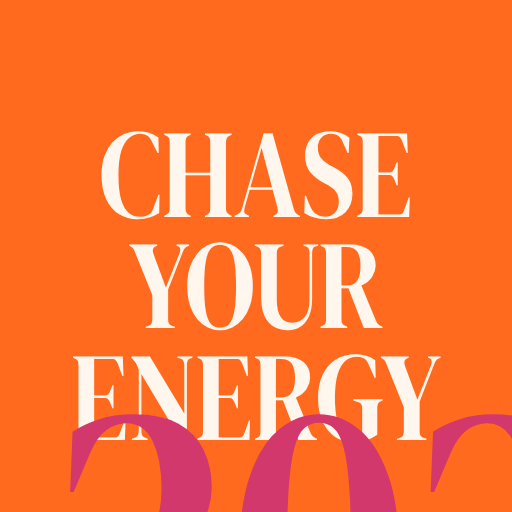
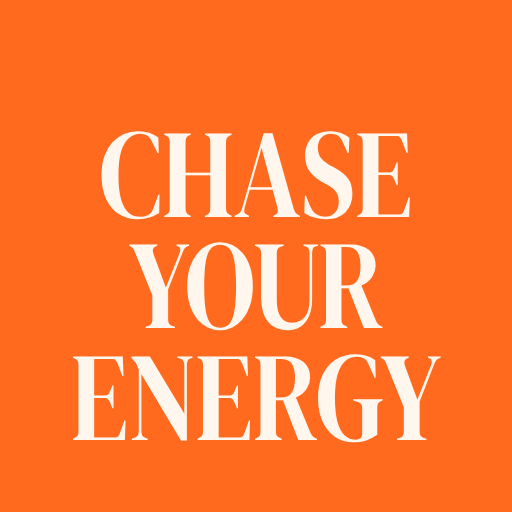
Energy family apps: long titles fit the phone page, Poppy cover year fits

Changed region(s): [[0.4688, 0.8125, 0.7812, 1.0], [0.125, 0.7812, 0.4375, 1.0], [0.8438, 0.7812, 1.0, 0.9688]]

diff --git a/p/a4c9eafbf1/energy-en-mon/index.html b/p/a4c9eafbf1/energy-en-mon/index.html
@@ -241,7 +241,11 @@ async function show(pid) {
   stage.style.width = meta.W + 'px'; stage.style.height = meta.H + 'px';
   stage.innerHTML = arts.map(s => `<div class="art">${s}</div>`).join('') + chunk[pid];
   const sid = sheet > 1 ? `${pid}~${sheet}` : pid;  // later note sheets keep their own text
-  const pg = stage.querySelector('.page'); if (meta.prep) new Function('root', meta.prep)(pg); fill(pg); fields(pg, sid); taps(pg, sid); photos(pg, sid); noteBar(pid);
+  const pg = stage.querySelector('.page'); if (meta.prep) new Function('root', meta.prep)(pg);
+  fill(pg);
+  pg.querySelectorAll('.hdr .t').forEach(t => {  /* long titles shrink until they fit the narrow phone page */
+    let f = parseFloat(getComputedStyle(t).fontSize); while (t.scrollWidth > t.clientWidth + 1 && f > 18) { f -= 2; t.style.setProperty('font-size', f + 'px', 'important'); } });
+ fields(pg, sid); taps(pg, sid); photos(pg, sid); noteBar(pid);
   if (/^index/.test(pid)) {  // the app menu (backup, help) lives on the index pages, next to the title
     const h = pg.querySelector('.hdr'), b = document.createElement('button'); b.className = 'btn appmenu'; b.textContent = '⚙ ' + T.menu;
     b.onclick = e => { e.stopPropagation(); openMenu(); }; if (h) h.appendChild(b); }

diff --git a/p/a4c9eafbf1/energy-en-sun/index.html b/p/a4c9eafbf1/energy-en-sun/index.html
@@ -241,7 +241,11 @@ async function show(pid) {
   stage.style.width = meta.W + 'px'; stage.style.height = meta.H + 'px';
   stage.innerHTML = arts.map(s => `<div class="art">${s}</div>`).join('') + chunk[pid];
   const sid = sheet > 1 ? `${pid}~${sheet}` : pid;  // later note sheets keep their own text
-  const pg = stage.querySelector('.page'); if (meta.prep) new Function('root', meta.prep)(pg); fill(pg); fields(pg, sid); taps(pg, sid); photos(pg, sid); noteBar(pid);
+  const pg = stage.querySelector('.page'); if (meta.prep) new Function('root', meta.prep)(pg);
+  fill(pg);
+  pg.querySelectorAll('.hdr .t').forEach(t => {  /* long titles shrink until they fit the narrow phone page */
+    let f = parseFloat(getComputedStyle(t).fontSize); while (t.scrollWidth > t.clientWidth + 1 && f > 18) { f -= 2; t.style.setProperty('font-size', f + 'px', 'important'); } });
+ fields(pg, sid); taps(pg, sid); photos(pg, sid); noteBar(pid);
   if (/^index/.test(pid)) {  // the app menu (backup, help) lives on the index pages, next to the title
     const h = pg.querySelector('.hdr'), b = document.createElement('button'); b.className = 'btn appmenu'; b.textContent = '⚙ ' + T.menu;
     b.onclick = e => { e.stopPropagation(); openMenu(); }; if (h) h.appendChild(b); }

diff --git a/p/a4c9eafbf1/energy-tr-mon/index.html b/p/a4c9eafbf1/energy-tr-mon/index.html
@@ -241,7 +241,11 @@ async function show(pid) {
   stage.style.width = meta.W + 'px'; stage.style.height = meta.H + 'px';
   stage.innerHTML = arts.map(s => `<div class="art">${s}</div>`).join('') + chunk[pid];
   const sid = sheet > 1 ? `${pid}~${sheet}` : pid;  // later note sheets keep their own text
-  const pg = stage.querySelector('.page'); if (meta.prep) new Function('root', meta.prep)(pg); fill(pg); fields(pg, sid); taps(pg, sid); photos(pg, sid); noteBar(pid);
+  const pg = stage.querySelector('.page'); if (meta.prep) new Function('root', meta.prep)(pg);
+  fill(pg);
+  pg.querySelectorAll('.hdr .t').forEach(t => {  /* long titles shrink until they fit the narrow phone page */
+    let f = parseFloat(getComputedStyle(t).fontSize); while (t.scrollWidth > t.clientWidth + 1 && f > 18) { f -= 2; t.style.setProperty('font-size', f + 'px', 'important'); } });
+ fields(pg, sid); taps(pg, sid); photos(pg, sid); noteBar(pid);
   if (/^index/.test(pid)) {  // the app menu (backup, help) lives on the index pages, next to the title
     const h = pg.querySelector('.hdr'), b = document.createElement('button'); b.className = 'btn appmenu'; b.textContent = '⚙ ' + T.menu;
     b.onclick = e => { e.stopPropagation(); openMenu(); }; if (h) h.appendChild(b); }

diff --git a/p/a4c9eafbf1/energy-tr-sun/index.html b/p/a4c9eafbf1/energy-tr-sun/index.html
@@ -241,7 +241,11 @@ async function show(pid) {
   stage.style.width = meta.W + 'px'; stage.style.height = meta.H + 'px';
   stage.innerHTML = arts.map(s => `<div class="art">${s}</div>`).join('') + chunk[pid];
   const sid = sheet > 1 ? `${pid}~${sheet}` : pid;  // later note sheets keep their own text
-  const pg = stage.querySelector('.page'); if (meta.prep) new Function('root', meta.prep)(pg); fill(pg); fields(pg, sid); taps(pg, sid); photos(pg, sid); noteBar(pid);
+  const pg = stage.querySelector('.page'); if (meta.prep) new Function('root', meta.prep)(pg);
+  fill(pg);
+  pg.querySelectorAll('.hdr .t').forEach(t => {  /* long titles shrink until they fit the narrow phone page */
+    let f = parseFloat(getComputedStyle(t).fontSize); while (t.scrollWidth > t.clientWidth + 1 && f > 18) { f -= 2; t.style.setProperty('font-size', f + 'px', 'important'); } });
+ fields(pg, sid); taps(pg, sid); photos(pg, sid); noteBar(pid);
   if (/^index/.test(pid)) {  // the app menu (backup, help) lives on the index pages, next to the title
     const h = pg.querySelector('.hdr'), b = document.createElement('button'); b.className = 'btn appmenu'; b.textContent = '⚙ ' + T.menu;
     b.onclick = e => { e.stopPropagation(); openMenu(); }; if (h) h.appendChild(b); }

diff --git a/p/a4c9eafbf1/leopard-en-mon/index.html b/p/a4c9eafbf1/leopard-en-mon/index.html
@@ -241,7 +241,11 @@ async function show(pid) {
   stage.style.width = meta.W + 'px'; stage.style.height = meta.H + 'px';
   stage.innerHTML = arts.map(s => `<div class="art">${s}</div>`).join('') + chunk[pid];
   const sid = sheet > 1 ? `${pid}~${sheet}` : pid;  // later note sheets keep their own text
-  const pg = stage.querySelector('.page'); if (meta.prep) new Function('root', meta.prep)(pg); fill(pg); fields(pg, sid); taps(pg, sid); photos(pg, sid); noteBar(pid);
+  const pg = stage.querySelector('.page'); if (meta.prep) new Function('root', meta.prep)(pg);
+  fill(pg);
+  pg.querySelectorAll('.hdr .t').forEach(t => {  /* long titles shrink until they fit the narrow phone page */
+    let f = parseFloat(getComputedStyle(t).fontSize); while (t.scrollWidth > t.clientWidth + 1 && f > 18) { f -= 2; t.style.setProperty('font-size', f + 'px', 'important'); } });
+ fields(pg, sid); taps(pg, sid); photos(pg, sid); noteBar(pid);
   if (/^index/.test(pid)) {  // the app menu (backup, help) lives on the index pages, next to the title
     const h = pg.querySelector('.hdr'), b = document.createElement('button'); b.className = 'btn appmenu'; b.textContent = '⚙ ' + T.menu;
     b.onclick = e => { e.stopPropagation(); openMenu(); }; if (h) h.appendChild(b); }

diff --git a/p/a4c9eafbf1/leopard-en-sun/index.html b/p/a4c9eafbf1/leopard-en-sun/index.html
@@ -241,7 +241,11 @@ async function show(pid) {
   stage.style.width = meta.W + 'px'; stage.style.height = meta.H + 'px';
   stage.innerHTML = arts.map(s => `<div class="art">${s}</div>`).join('') + chunk[pid];
   const sid = sheet > 1 ? `${pid}~${sheet}` : pid;  // later note sheets keep their own text
-  const pg = stage.querySelector('.page'); if (meta.prep) new Function('root', meta.prep)(pg); fill(pg); fields(pg, sid); taps(pg, sid); photos(pg, sid); noteBar(pid);
+  const pg = stage.querySelector('.page'); if (meta.prep) new Function('root', meta.prep)(pg);
+  fill(pg);
+  pg.querySelectorAll('.hdr .t').forEach(t => {  /* long titles shrink until they fit the narrow phone page */
+    let f = parseFloat(getComputedStyle(t).fontSize); while (t.scrollWidth > t.clientWidth + 1 && f > 18) { f -= 2; t.style.setProperty('font-size', f + 'px', 'important'); } });
+ fields(pg, sid); taps(pg, sid); photos(pg, sid); noteBar(pid);
   if (/^index/.test(pid)) {  // the app menu (backup, help) lives on the index pages, next to the title
     const h = pg.querySelector('.hdr'), b = document.createElement('button'); b.className = 'btn appmenu'; b.textContent = '⚙ ' + T.menu;
     b.onclick = e => { e.stopPropagation(); openMenu(); }; if (h) h.appendChild(b); }

diff --git a/p/a4c9eafbf1/leopard-tr-mon/index.html b/p/a4c9eafbf1/leopard-tr-mon/index.html
@@ -241,7 +241,11 @@ async function show(pid) {
   stage.style.width = meta.W + 'px'; stage.style.height = meta.H + 'px';
   stage.innerHTML = arts.map(s => `<div class="art">${s}</div>`).join('') + chunk[pid];
   const sid = sheet > 1 ? `${pid}~${sheet}` : pid;  // later note sheets keep their own text
-  const pg = stage.querySelector('.page'); if (meta.prep) new Function('root', meta.prep)(pg); fill(pg); fields(pg, sid); taps(pg, sid); photos(pg, sid); noteBar(pid);
+  const pg = stage.querySelector('.page'); if (meta.prep) new Function('root', meta.prep)(pg);
+  fill(pg);
+  pg.querySelectorAll('.hdr .t').forEach(t => {  /* long titles shrink until they fit the narrow phone page */
+    let f = parseFloat(getComputedStyle(t).fontSize); while (t.scrollWidth > t.clientWidth + 1 && f > 18) { f -= 2; t.style.setProperty('font-size', f + 'px', 'important'); } });
+ fields(pg, sid); taps(pg, sid); photos(pg, sid); noteBar(pid);
   if (/^index/.test(pid)) {  // the app menu (backup, help) lives on the index pages, next to the title
     const h = pg.querySelector('.hdr'), b = document.createElement('button'); b.className = 'btn appmenu'; b.textContent = '⚙ ' + T.menu;
     b.onclick = e => { e.stopPropagation(); openMenu(); }; if (h) h.appendChild(b); }

diff --git a/p/a4c9eafbf1/leopard-tr-sun/index.html b/p/a4c9eafbf1/leopard-tr-sun/index.html
@@ -241,7 +241,11 @@ async function show(pid) {
   stage.style.width = meta.W + 'px'; stage.style.height = meta.H + 'px';
   stage.innerHTML = arts.map(s => `<div class="art">${s}</div>`).join('') + chunk[pid];
   const sid = sheet > 1 ? `${pid}~${sheet}` : pid;  // later note sheets keep their own text
-  const pg = stage.querySelector('.page'); if (meta.prep) new Function('root', meta.prep)(pg); fill(pg); fields(pg, sid); taps(pg, sid); photos(pg, sid); noteBar(pid);
+  const pg = stage.querySelector('.page'); if (meta.prep) new Function('root', meta.prep)(pg);
+  fill(pg);
+  pg.querySelectorAll('.hdr .t').forEach(t => {  /* long titles shrink until they fit the narrow phone page */
+    let f = parseFloat(getComputedStyle(t).fontSize); while (t.scrollWidth > t.clientWidth + 1 && f > 18) { f -= 2; t.style.setProperty('font-size', f + 'px', 'important'); } });
+ fields(pg, sid); taps(pg, sid); photos(pg, sid); noteBar(pid);
   if (/^index/.test(pid)) {  // the app menu (backup, help) lives on the index pages, next to the title
     const h = pg.querySelector('.hdr'), b = document.createElement('button'); b.className = 'btn appmenu'; b.textContent = '⚙ ' + T.menu;
     b.onclick = e => { e.stopPropagation(); openMenu(); }; if (h) h.appendChild(b); }

diff --git a/p/a4c9eafbf1/poppy-en-mon/index.html b/p/a4c9eafbf1/poppy-en-mon/index.html
@@ -241,7 +241,11 @@ async function show(pid) {
   stage.style.width = meta.W + 'px'; stage.style.height = meta.H + 'px';
   stage.innerHTML = arts.map(s => `<div class="art">${s}</div>`).join('') + chunk[pid];
   const sid = sheet > 1 ? `${pid}~${sheet}` : pid;  // later note sheets keep their own text
-  const pg = stage.querySelector('.page'); if (meta.prep) new Function('root', meta.prep)(pg); fill(pg); fields(pg, sid); taps(pg, sid); photos(pg, sid); noteBar(pid);
+  const pg = stage.querySelector('.page'); if (meta.prep) new Function('root', meta.prep)(pg);
+  fill(pg);
+  pg.querySelectorAll('.hdr .t').forEach(t => {  /* long titles shrink until they fit the narrow phone page */
+    let f = parseFloat(getComputedStyle(t).fontSize); while (t.scrollWidth > t.clientWidth + 1 && f > 18) { f -= 2; t.style.setProperty('font-size', f + 'px', 'important'); } });
+ fields(pg, sid); taps(pg, sid); photos(pg, sid); noteBar(pid);
   if (/^index/.test(pid)) {  // the app menu (backup, help) lives on the index pages, next to the title
     const h = pg.querySelector('.hdr'), b = document.createElement('button'); b.className = 'btn appmenu'; b.textContent = '⚙ ' + T.menu;
     b.onclick = e => { e.stopPropagation(); openMenu(); }; if (h) h.appendChild(b); }

diff --git a/p/a4c9eafbf1/poppy-en-sun/index.html b/p/a4c9eafbf1/poppy-en-sun/index.html
@@ -241,7 +241,11 @@ async function show(pid) {
   stage.style.width = meta.W + 'px'; stage.style.height = meta.H + 'px';
   stage.innerHTML = arts.map(s => `<div class="art">${s}</div>`).join('') + chunk[pid];
   const sid = sheet > 1 ? `${pid}~${sheet}` : pid;  // later note sheets keep their own text
-  const pg = stage.querySelector('.page'); if (meta.prep) new Function('root', meta.prep)(pg); fill(pg); fields(pg, sid); taps(pg, sid); photos(pg, sid); noteBar(pid);
+  const pg = stage.querySelector('.page'); if (meta.prep) new Function('root', meta.prep)(pg);
+  fill(pg);
+  pg.querySelectorAll('.hdr .t').forEach(t => {  /* long titles shrink until they fit the narrow phone page */
+    let f = parseFloat(getComputedStyle(t).fontSize); while (t.scrollWidth > t.clientWidth + 1 && f > 18) { f -= 2; t.style.setProperty('font-size', f + 'px', 'important'); } });
+ fields(pg, sid); taps(pg, sid); photos(pg, sid); noteBar(pid);
   if (/^index/.test(pid)) {  // the app menu (backup, help) lives on the index pages, next to the title
     const h = pg.querySelector('.hdr'), b = document.createElement('button'); b.className = 'btn appmenu'; b.textContent = '⚙ ' + T.menu;
     b.onclick = e => { e.stopPropagation(); openMenu(); }; if (h) h.appendChild(b); }

diff --git a/p/a4c9eafbf1/zebra-en-mon/index.html b/p/a4c9eafbf1/zebra-en-mon/index.html
@@ -241,7 +241,11 @@ async function show(pid) {
   stage.style.width = meta.W + 'px'; stage.style.height = meta.H + 'px';
   stage.innerHTML = arts.map(s => `<div class="art">${s}</div>`).join('') + chunk[pid];
   const sid = sheet > 1 ? `${pid}~${sheet}` : pid;  // later note sheets keep their own text
-  const pg = stage.querySelector('.page'); if (meta.prep) new Function('root', meta.prep)(pg); fill(pg); fields(pg, sid); taps(pg, sid); photos(pg, sid); noteBar(pid);
+  const pg = stage.querySelector('.page'); if (meta.prep) new Function('root', meta.prep)(pg);
+  fill(pg);
+  pg.querySelectorAll('.hdr .t').forEach(t => {  /* long titles shrink until they fit the narrow phone page */
+    let f = parseFloat(getComputedStyle(t).fontSize); while (t.scrollWidth > t.clientWidth + 1 && f > 18) { f -= 2; t.style.setProperty('font-size', f + 'px', 'important'); } });
+ fields(pg, sid); taps(pg, sid); photos(pg, sid); noteBar(pid);
   if (/^index/.test(pid)) {  // the app menu (backup, help) lives on the index pages, next to the title
     const h = pg.querySelector('.hdr'), b = document.createElement('button'); b.className = 'btn appmenu'; b.textContent = '⚙ ' + T.menu;
     b.onclick = e => { e.stopPropagation(); openMenu(); }; if (h) h.appendChild(b); }

diff --git a/p/a4c9eafbf1/zebra-en-sun/index.html b/p/a4c9eafbf1/zebra-en-sun/index.html
@@ -241,7 +241,11 @@ async function show(pid) {
   stage.style.width = meta.W + 'px'; stage.style.height = meta.H + 'px';
   stage.innerHTML = arts.map(s => `<div class="art">${s}</div>`).join('') + chunk[pid];
   const sid = sheet > 1 ? `${pid}~${sheet}` : pid;  // later note sheets keep their own text
-  const pg = stage.querySelector('.page'); if (meta.prep) new Function('root', meta.prep)(pg); fill(pg); fields(pg, sid); taps(pg, sid); photos(pg, sid); noteBar(pid);
+  const pg = stage.querySelector('.page'); if (meta.prep) new Function('root', meta.prep)(pg);
+  fill(pg);
+  pg.querySelectorAll('.hdr .t').forEach(t => {  /* long titles shrink until they fit the narrow phone page */
+    let f = parseFloat(getComputedStyle(t).fontSize); while (t.scrollWidth > t.clientWidth + 1 && f > 18) { f -= 2; t.style.setProperty('font-size', f + 'px', 'important'); } });
+ fields(pg, sid); taps(pg, sid); photos(pg, sid); noteBar(pid);
   if (/^index/.test(pid)) {  // the app menu (backup, help) lives on the index pages, next to the title
     const h = pg.querySelector('.hdr'), b = document.createElement('button'); b.className = 'btn appmenu'; b.textContent = '⚙ ' + T.menu;
     b.onclick = e => { e.stopPropagation(); openMenu(); }; if (h) h.appendChild(b); }
